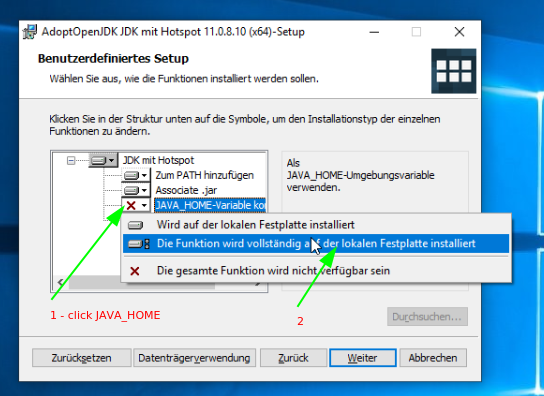
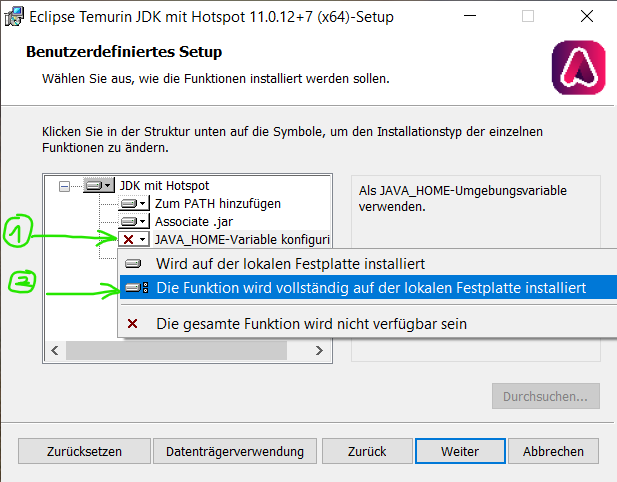
Remove javafx install section and update pictures

diff --git a/README.md b/README.md
@@ -4,10 +4,6 @@
       - [Install Java 11 on Windows](#install-java-11-on-windows)
       - [Install Java 11 on MacOS](#install-java-11-on-macos)
       - [Install Java 11 on Ubuntu Linux](#install-java-11-on-ubuntu-linux)
-    - [Install JavaFX](#install-javafx)
-      - [Install JavaFX on Windows](#install-javafx-on-windows)
-      - [Install JavaFX on MacOS](#install-javafx-on-macos)
-      - [Install JavaFX on Ubuntu Linux](#install-javafx-on-ubuntu-linux)
     - [Install Eclipse](#install-eclipse)
       - [Install Eclipse on Windows](#install-eclipse-on-windows)
       - [Install Eclipse on MacOS](#install-eclipse-on-macos)
@@ -37,28 +33,33 @@
 
 #### Install Java 11 on Windows
 
-1. Open https://adoptopenjdk.net  in your browser
-2. Download and run the adopt open JDK 11 installation wizard
+1. Open https://adoptium.net/  in your browser
+2. Download and run the adoptium open JDK 11 installation wizard ...
 ![01_download_adopt_openjdk](images/01_download_adopt_openjdk.png)
 
-3. Click through the adopt open jdk wizard:  
+    ... and click "OK" for the installtion warning
+
+    ![01_2_warning](images/01_2_download_adopt_openjdk_warning.png)
+
+3. Click through the adoptium open JDK wizard:  
 ![02_openjdk_installer_1](images/02_openjdk_installer_1.png)
-![03_openjdk_installer_2](images/03_openjdk_installer_2.png)
 ![04_openjdk_installer_3](images/04_openjdk_installer_3.png)
 ![5_openjdk_installer_4](images/05_openjdk_installer_4.png)
 ![06_openjdk_installer_5](images/06_openjdk_installer_5.png)
 ![07_openjdk_installer_6](images/07_openjdk_installer_6.png)
+(the name might have changed to "Adoptium Open JDK")
 ![08_openjdk_installer_7](images/08_openjdk_installer_7.png)
 
-3. Verify that java has been installed successfully by running the command `java -version` in your Windows command line interface:
+
+3. Verify that java has been installed successfully by running the command `java -version` in your Windows command line interface, the exact version may be different at the time you run this command:
 ![09_verify_java_1](images/09_verify_java_1.png)
 ![10_verify_java_2](images/10_verify_java_2.png)
 ![11_verify_java_3](images/11_verify_java_3.png)
 
 #### Install Java 11 on MacOS
 
-1. Open https://adoptopenjdk.net  in your browser
-2. Download and run the adopt open JDK 11 installation wizard
+1. Open https://adoptium.net/  in your browser
+2. Download and run the adoptium open JDK 11 installation wizard
 ![](images/35_macos_adoptopenjdk_1.png)
 ![](images/36_macos_adoptopenjdk_2.png)
 ![](images/37_macos_adoptopenjdk_3.png)
@@ -71,55 +72,7 @@
 2. Run the following command:
 
     ```bash
-    sudo apt install default-jdk
-    ```
-
-### Install JavaFX
-
-#### Install JavaFX on Windows
-
-1. Open your browser and navigate to https://gluonhq.com/products/javafx/
-2. Click on the green Download-Button for JavaFX Windows SDK
-
-    ![](images/27_install_javafx_libs_01.png)
-
-3. Navigate to the directory where you've downloaded the ZIP to
-
-    ![](images/28_install_javafx_libs_02.png)
-
-4. Right click and extract
-
-    ![](images/29_install_javafx_libs_03.png)
-
-5. Select a directory to extract
-
-    ![](images/30_install_javafx_libs_04.png)
-
-6. Navigate to the directory where you've extracted the ZIP-archive to and click your way to the **lib-directory**
-7. Hold the shift button, then left click to select all files except the **src** ZIP - do NOT select the **src** ZIP
-
-    ![](images/31_install_javafx_libs_05.png)
-
-   
-7. Check that all files except the src zip are marked and then copy them with either right-click->copy or pressing CTRL + C
-
-    ![](images/32_install_javafx_libs_06.png)
-
-8. Navigate to `C:\Program Files\AdoptOpenJDK\jdk-11.0.8.10-hotspot\lib` (the version number might be different by the time you work through this tutorial) and paste your copied files into this **lib** directory by either righ-click->paste or pressing CTRL + V on your keyboard
-
-    ![](images/33_install_javafx_libs_07.png)
-
-#### Install JavaFX on MacOS
-
-You don't need to install JavaFX on MacOS if you've installed AdoptOpenJDK from above, and use Maven Projects to create JavaFX Applications.
-
-#### Install JavaFX on Ubuntu Linux
-
-1. Open a new terminal (CTRL + ALT + T)
-2. run the following command to install javafx
-
-    ```bash
-    sudo apt install openjfx
+    sudo apt install default-jdk openjfx
     ```
 
 ### Install Eclipse
@@ -339,43 +292,43 @@ Die Demo-Klassen sollen genutzt werden, um einzelne Instanzen der Kfz Klassen zu
 erzeugen. Diese sollen eine main-Methode enthalten und somit ausführbar sein.
 
 ### Tasks:
-1. Erstellen Sie das neue Java Projekt `se1c3`.
-2. Erstellen Sie sukzessive die Klassen KfzV0, Kfz und Lkw:
-3. Implementieren Sie die Klasse KfzV0 mit den öffentlichen Integer-Attributen
-sitze und tankInhalt und dem öffentlichen Float-Attribut verbrauch.
+1. Erstellen Sie das neue **Java Projekt** `se1c3`.
+2. Erstellen Sie sukzessive (nacheinander) die Klassen ``KfzV0``, ``Kfz`` und ``Lkw``:
+3. Implementieren Sie die Klasse ``KfzV0`` mit den öffentlichen Integer-Attributen
+``sitze`` und ``tankInhalt`` und dem öffentlichen Float-Attribut verbrauch.
 4. Implementieren Sie das Programm KfzDemo.java mit einer main-Methode:
-   - Die Instanz minivan wird von der Klasse KfzV0 erzeugt.
-   - Die Attribute werden mit sitze = 6, tankInhalt = 70, verbrauch = 14 initialisiert.
+   - Die Instanz ``minivan`` wird von der Klasse ``KfzV0`` erzeugt.
+   - Die Attribute werden mit ``sitze = 6``, ``tankInhalt = 70``, ``verbrauch = 14`` initialisiert.
    - Die mögliche Reichweite bei vollem Tank wird ausgerechnet und mit
-   System.out.println ausgegeben.
-5. Erstellen Sie ausgehend von KfzDemo.java die Klasse ZweiKfz.java:
-   - Zusätzlich zur minivan Instanz wird eine Instanz sportwagen von der Klasse KfzV0 erzeugt.
-   - Die Attribute von sportwagen werden mit sitze = 2, tankInhalt = 45, verbrauch = 11 initialisiert.
-   - Die mögliche Reichweite von sportwagen bei vollem Tank wird ausgerechnet und mittels System.out.println ausgegeben.
-6. Erweitern Sie die Klasse KfzV0 um die Methode reichweite(), die die Reichweite als Rückgabewert liefert.
-7. Erstellen Sie die Klasse ReturnDemo.java:
+   ``System.out.println`` ausgegeben.
+   5. Erstellen Sie ausgehend von ``KfzDemo.java`` die Klasse ``ZweiKfz.java``:
+   - Zusätzlich zur ``minivan`` Instanz wird eine Instanz ``sportwagen`` von der Klasse ``KfzV0`` erzeugt.
+   - Die Attribute von ``sportwagen`` werden mit ``sitze = 2``, ``tankInhalt = 45``, ``verbrauch = 11`` initialisiert.
+   - Die mögliche Reichweite von ``sportwagen`` bei vollem Tank wird ausgerechnet und mittels ``System.out.println`` ausgegeben.
+6. Erweitern Sie die Klasse ``KfzV0`` um die Methode ``reichweite()``, die die Reichweite als Rückgabewert liefert.
+7. Erstellen Sie die Klasse ``ReturnDemo.java``:
    - Die Ausgabe der Reichweite erfolgt in der main-Methode, wobei die Methode
    reichweite() genutzt wird.
-8. Die Klasse KfzV0 wird um die Methode spritVerbrauch(int km) erweitert.
+8. Die Klasse ``KfzV0`` wird um die Methode spritVerbrauch(int km) erweitert.
    - Die Methode hat als Eingabeparameter eine Entfernung in Kilometern.
    - Sie berechnet den entsprechenden Spritverbrauch für die Entfernung.
    - Der Spritverbrauch wird als float-Ergebnis zurückgegeben.
-9. Erstellen Sie ausgehend von ReturnDemo.java die Klasse SpritDemo.java:
+9. Erstellen Sie ausgehend von ``ReturnDemo.java`` die Klasse ``SpritDemo.java``:
    - Die Methode spritVerbrauch wird in der main-Methode für die Entfernung 252 km aufgerufen und die Ergebnisse für die beiden Instanzen ausgegeben.
-10. Erstellen Sie ausgehend von KfzV0.java die Klasse Kfz. Die neue Klasse Kfz wird um den Konstruktor Kfz(int sitze, int tankInhalt, float verbrauch) erweitert. Zusätzlich werden alle Attribute auf privat gesetzt.
-11. Erstellen Sie ausgehend von SpritDemo.java die Klasse KonstruktorDemo.java:
-    - Die Attribute werden über den Konstruktor Kfz initialisiert.
-12.  Die Klasse Lkw wird von Kfz abgeleitet (Vererbung):
-    - Sie hat die beiden zusätzlichen Attribute int ladeFlaeche und boolean hatAnhaenger.
-    - Der Konstruktor Lkw initialisiert alle Attribute.
-    - Die Lkw-Methode spritVerbrauch addiert immer einen Liter zum errechneten Verbrauch hinzu.
-13. Implementieren Sie das Programm LkwDemo.java mit:
-    - Einer Instanz sportWagen der Klasse Kfz und einer Instanz magirus der Klasse
-    Lkw.
+10. Erstellen Sie ausgehend von ``KfzV0.java`` die Klasse ``Kfz``. Die neue Klasse ``Kfz`` wird um die Konstruktor-Methode ``Kfz(int sitze, int tankInhalt, float verbrauch)`` erweitert. Zusätzlich werden alle Attribute auf ``private`` gesetzt.
+11. Erstellen Sie ausgehend von ``SpritDemo.java`` die Klasse ``KonstruktorDemo.java``:
+    - Die Attribute werden über den Konstruktor ``Kfz`` initialisiert.
+12.  Die Klasse Lkw wird von ``Kfz`` abgeleitet (Vererbung):
+    - Sie hat die beiden zusätzlichen Attribute ``int ladeFlaeche`` und ``boolean hatAnhaenger``.
+    - Der Konstruktor ``Lkw`` initialisiert alle Attribute.
+    - Die Lkw-Methode ``spritVerbrauch`` addiert immer einen Liter zum errechneten Verbrauch hinzu.
+13. Implementieren Sie das Programm ``LkwDemo.java`` mit:
+    - Einer Instanz ``sportWagen`` der Klasse ``Kfz`` und einer Instanz ``magirus`` der Klasse
+    ``Lkw``.
     - Die magirus-Instanz hat die gleichen Attribute wie die sportwagen-Instanz (nur
     zur Demo).
-    - Weisen Sie der zusätzlichen Kfz-Variable kfz (keine Instanziierung)
-    nacheinander sportWagen und magirus zu und geben Sie jeweils den Verbrauch auf 252 km aus.
+    - Weisen Sie der zusätzlichen Kfz-Variable ``kfz`` (keine Instanziierung)
+    nacheinander ``sportWagen`` und ``magirus`` zu und geben Sie jeweils den Verbrauch auf 252 km aus.
     
 ## Course 04
 
